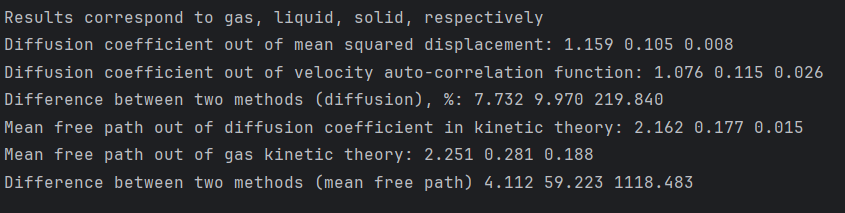
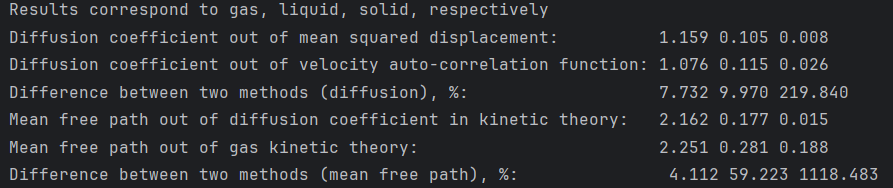
version 2

diff --git a/main.cpp b/main.cpp
@@ -10,13 +10,13 @@ const int amountOfSymbolsBeforeRootDirectory = 8;
 const std::string DIR_PATH = FILE_PATH.substr(0, FILE_PATH.size() - amountOfSymbolsBeforeRootDirectory);
 
 //number of particles, integration steps, density
-const unsigned int N = 216, numOfSteps = 10000;
+const unsigned int N = 216, numOfSteps = 1000;
 // maximum number of particles along each coordinate
 const unsigned int n = std::ceil(std::cbrt(N));
 // integration step
 const double dt = 0.005;
 // mass of particles, lennard-jones parameters, reduced density (rho_reduced = rho_real / sigma^3), reduced temperature (tem_reduced = tem_real / epsilon)
-const double m = 1, sigma = 1, epsilon = 1, rho = 1.2, T_thermostat = 1;
+const double m = 1, sigma = 1, epsilon = 1, rho = 0.8, T_thermostat = 1.25;
 // turning NVT-ensemble
 const bool enable_NVT = true;
 // size of a box
@@ -208,7 +208,7 @@ int main() {
     for (unsigned int i = 0; i < numOfSteps / 2; i++) {
         outfile << vacf[i] << "," << norm[i] << "," << std::endl;
     }
-//  averaging data for pair correlation function
+//  writing data for pair correlation function
     for (unsigned int i = 0; i < N * (N - 1) * (numOfSteps + 1) / 2; i++) {
         outfile << dist_all[i] << ",";
     }

diff --git a/phase.py b/phase.py
@@ -65,7 +65,7 @@ mfp_kin = np.array([])
 er_d = np.array([])
 mfp = np.array([])
 er_mfp = np.array([])
-file_names = ["data_gas.csv", "data_liquid.csv", "data_solid.csv"]
+file_names = ["data_gas2.csv", "data_liquid2.csv", "data_solid2.csv"]
 for file in file_names:
     with open(file, 'r') as data_file:
         data = list(csv.reader(data_file, delimiter=",", quoting=csv.QUOTE_NONNUMERIC))
@@ -110,7 +110,7 @@ print("Diffusion coefficient out of velocity auto-correlation function:", *[f"{a
 print("Difference between two methods (diffusion), %:                  ", *[f"{a:.3f}" for a in er_d])
 print("Mean free path out of diffusion coefficient in kinetic theory:  ", *[f"{a:.3f}" for a in mfp_kin])
 print("Mean free path out of gas kinetic theory:                       ", *[f"{a:.3f}" for a in mfp])
-print("Difference between two methods (mean free path), %:              ", *[f"{a:.3f}" for a in er_mfp])
+print("Difference between two methods (mean free path), %:             ", *[f"{a:.3f}" for a in er_mfp])
 axis2.plot(t[0: int(numOfSteps / 2)], zeros)
 axis3.plot(x, ones)
 axis1.legend(["gas", "liquid", "solid"])
